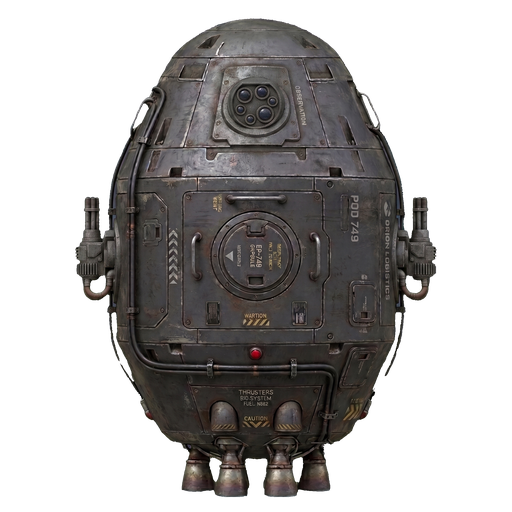
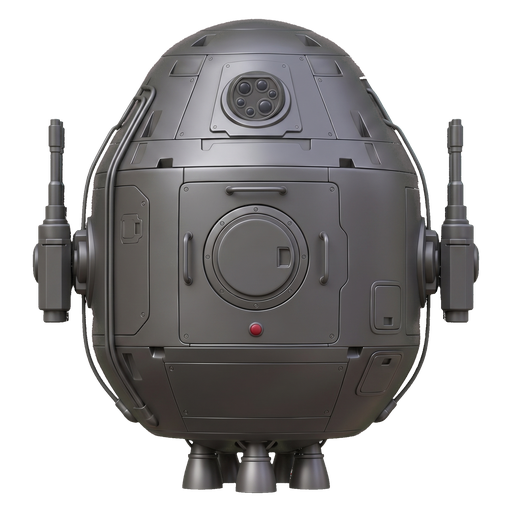
Phoenix v2, mipmaps en texturas sueltas y captura de zoom lejano en el autotest
Tres cosas del mismo problema: de lejos la nave no se veia bien.

La MITAD ARTISTICA es el render. La v1 traia rotulos y suciedad que a 141 px son
ruido; la v2 es limpia y gana un 40% de contraste a tamanio de juego. Anclajes
remedidos: tres toberas y canones en +-202/-138.

La MITAD TECNICA es el filtrado. La nave sale de una textura de 512 dibujada a
141 px, y con zoom 0,1 son treinta pixeles de quinientos. Sin mipmaps la GPU
muestrea con un filtro de 2x2 texeles y el detalle fino se aliasa: contorno
punteado que hierve al moverse. Ahora `EntityNode` elige el filtro por tipo de
textura — mipmaps en el PNG suelto, lineal a secas en el atlas, porque ahi los
niveles bajos mezclan celdas vecinas, o sea un fotograma con el siguiente. Esa
distincion ya estaba calculada dos lineas mas arriba, y por eso va ahi y no en un
ajuste global: `default_texture_filter` no sabe distinguir un atlas de un PNG.
Alta frecuencia en la captura de zoom: 15,54 -> 14,42.

Y el AUTOTEST no lo habria visto nunca, porque solo miraba la nave a tamanio de
crucero — donde el arte no falla. La fase 96 aleja la camara a 0,35 y guarda
autotest-zoom.png. Misma leccion que el minimapa: un mapa estirado tambien
parece un mapa.

diff --git a/README.md b/README.md
@@ -377,6 +377,37 @@ barra de acción II, así que el atajo se habría comido un slot en cuanto exist
 la única tecla que el documento no reparte. El autotest en modo bestiario **baja la calidad con el mundo ya poblado** y retrata el
 resultado: si reconstruir rompiera algo, revienta ahí.
 
+## Filtrado de textura: mipmaps sí, pero no en los atlas
+
+La nave se dibuja a 141 px desde una textura de 512, y el zoom de cámara baja hasta 0,1: ahí son unos
+treinta píxeles sacados de quinientos. **Sin mipmaps la GPU muestrea la textura entera con un filtro
+de 2×2 téxeles**, así que el detalle fino no se promedia — se aliasa. El síntoma es un contorno
+punteado que hierve al moverse, y era la mitad técnica de «de lejos no se ve bien». La otra mitad es
+cuánto detalle trae el render, y está en el README de `mex-orbit-art`.
+
+En `EntityNode._construir_visual`, el filtro se elige por **tipo de textura**:
+
+| textura | filtro | por qué |
+|---|---|---|
+| PNG suelto | `LINEAR_WITH_MIPMAPS` | se reduce mucho; los mipmaps son justo para eso |
+| atlas de fotogramas | `LINEAR` | los mipmaps promedian a ciegas y en los niveles bajos **mezclan celdas vecinas**, o sea un fotograma con el siguiente |
+
+Esa distinción ya estaba calculada unas líneas más arriba (`anim.is_empty()`), que es la razón de
+ponerlo ahí y no en un ajuste global del proyecto: `default_texture_filter` no sabe distinguir un
+atlas de un PNG.
+
+Hay que activarlo **en los dos sitios**: el filtro en el nodo y `mipmaps/generate=true` en el
+`.import` de la textura. Solo con el filtro no hay niveles que muestrear y Godot cae al nivel 0 sin
+avisar. Están activados en las texturas sueltas de `assets/ships` y `assets/npcs`; los `*-anim.png`
+se quedan fuera a propósito.
+
+Medido sobre la captura de zoom lejano del autotest: la energía de alta frecuencia baja de 15,54 a
+14,42, y a ojo los tubos de los cañones pasan de línea de puntos a tubo sólido.
+
+**El autotest saca esa captura** (`autotest-zoom.png`, fase 96, zoom 0,35). Antes miraba siempre la
+nave a tamaño de crucero, que es donde el arte nunca falla; el sitio donde se cae es el otro. Misma
+lección que el minimapa: un mapa estirado también parece un mapa.
+
 ## Dos tipos de asset para los bichos
 
 **PNG + shaders** es el caso normal: una textura, su capa emisiva y los efectos declarados en el
